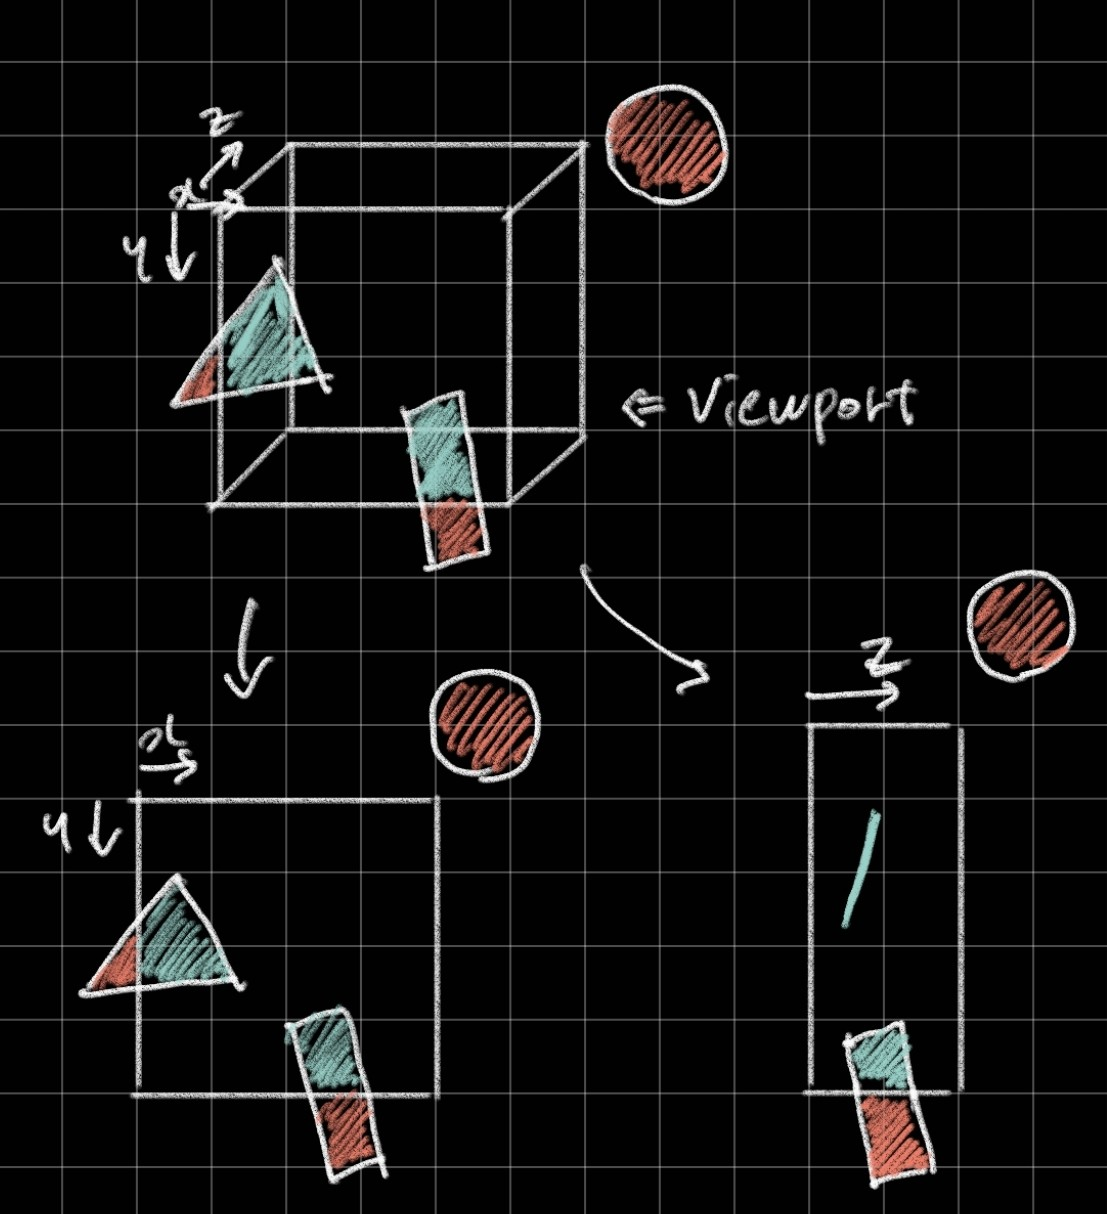
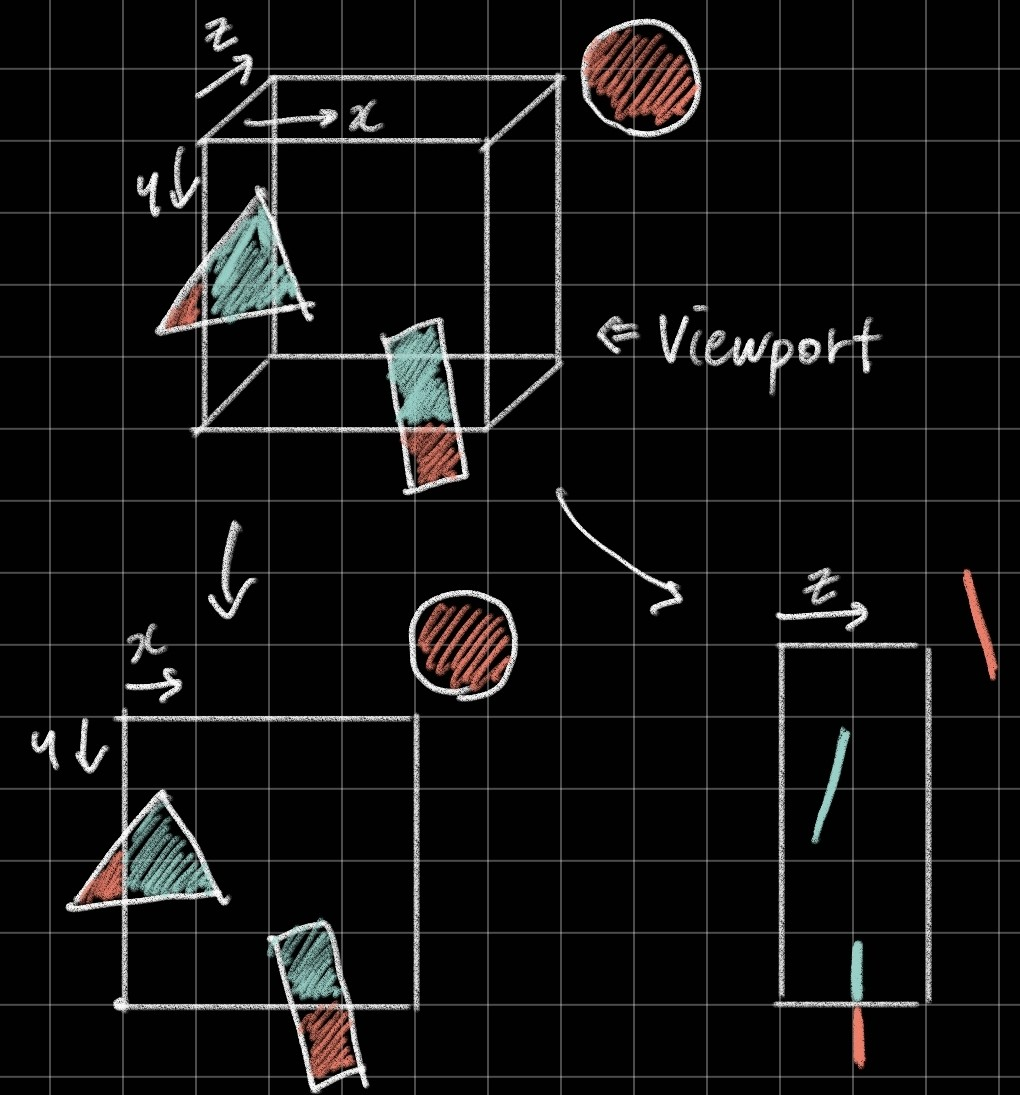
이미지 추가

Changed region(s): [[0.0, 0.0, 1.0, 1.0], [0.9725, 0.9005, 1.0, 0.9936]]

diff --git a/_posts/2022-03-13-Devlog-Software-Renderer.md b/_posts/2022-03-13-Devlog-Software-Renderer.md
@@ -160,6 +160,8 @@ Vector3d<T> Normalize()
 
 특히 두 번째, 행렬 대신 삼각함수 연산만을 통해 기저를 회전시키는 방법이 현재 방법보다 더 적은 연산량을 필요로 하는 것을 파악하고 카메라 회전 구현 방식을 해당 방식으로 수정하였다.
 
+![]({{site.baseurl}}/assets/img/posts/2022-03-13/Devlog-Software-Renderer/img02.jpg)
+
 <br/>
 
 현재 카메라는 문제 없이 이동/회전이 가능하며, 추후 쿼터니언을 이용해 회전하는 방법이나 유니티 엔진의 Scene view처럼 우클릭 한 상태에서만 카메라가 이동/회전하도록, 그리고 Ray와 충돌처리를 이용한 Mouse Picking등이 가능하도록 기능을 추가할 예정이다.
